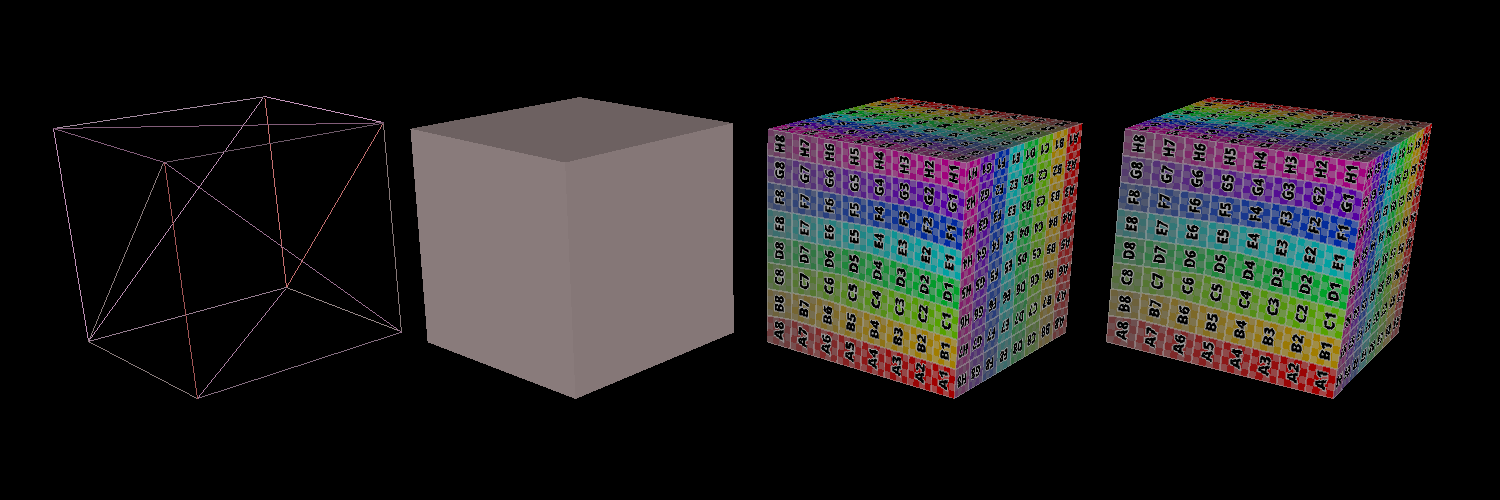
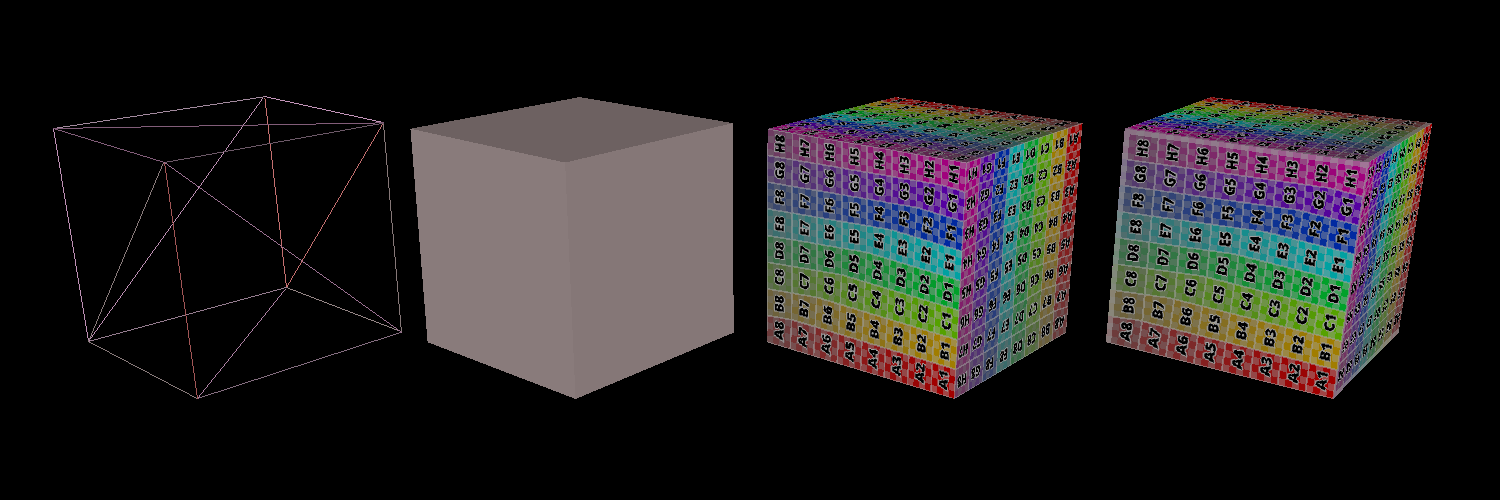
finished ait5, next t6

Changed region(s): [[0.736, 0.21, 0.9507, 0.78]]

diff --git a/src/rasterizer/pipeline.cpp b/src/rasterizer/pipeline.cpp
@@ -576,6 +576,8 @@ void Pipeline< p, P, flags >::rasterize_triangle(
 		float max_y = std::max(va.fb_position.y, std::max(vb.fb_position.y, vc.fb_position.y));
 
 		// std::array< float, FA> attributesTmp = va.attributes;
+		bool derivativesComputed = false;
+		Vec2 der;
 
 		for (int row = int(floor(min_x)); row < int(ceil(max_x)); row++){
 			for (int col = int(floor(min_y)); col < int(ceil(max_y)); col++){
@@ -584,12 +586,42 @@ void Pipeline< p, P, flags >::rasterize_triangle(
 				if( inTriangle(pixelPos, va.fb_position, vb.fb_position, vc.fb_position))
 				{
 					Fragment frag;
-					// frag.attributes = interpolateAttr(pixelPos, va.fb_position, vb.fb_position, vc.fb_position, 
-					// 								  va.attributes, vb.attributes, vc.attributes);
+					if (!derivativesComputed){
+						Vec3 derTest_x = pixelPos + Vec3(.01f, 0.0f, 0.0f);
+						Vec3 derTest_y = pixelPos + Vec3(0.0f, .01f, 0.0f);
+						Vec3 baryPixel = barycentricCoord(pixelPos, 
+													 va.fb_position, 
+													 vb.fb_position, 
+													 vc.fb_position);
+
+						Vec3 bary_x = barycentricCoord(derTest_x, 
+													 va.fb_position, 
+													 vb.fb_position, 
+													 vc.fb_position);
+						
+						Vec3 bary_y = barycentricCoord(derTest_y,
+													 va.fb_position, 
+													 vb.fb_position, 
+													 vc.fb_position);	
+						
+						Vec3 baryDeriveX = (bary_x - baryPixel) / .01f;
+						Vec3 baryDeriveY = (bary_y - baryPixel) / .01f;
+						der.x = baryDeriveX.x * va.attributes[0] + 
+								baryDeriveX.y * vb.attributes[0] + 
+								baryDeriveX.z * vc.attributes[0];
+						der.y = baryDeriveY.x * va.attributes[0] +
+								baryDeriveY.y * vb.attributes[0] +
+								baryDeriveY.z * vc.attributes[0];
+
+						derivativesComputed = true;
+					}
 					
 					frag.attributes = interpolateAttr(pixelPos, va.fb_position, vb.fb_position, vc.fb_position, 
 																		  va.attributes, vb.attributes, vc.attributes);
 					frag.fb_position = pixelPos;
+					
+					frag.derivatives[0] = der;
+					
 					emit_fragment(frag);
 				}
 			}
@@ -601,7 +633,68 @@ void Pipeline< p, P, flags >::rasterize_triangle(
 
 		//As a placeholder, here's code that calls the Screen-space interpolation function:
 		//(remove this and replace it with a real solution)
-		Pipeline< PrimitiveType::Lines, P, (flags  & ~PipelineMask_Interp) | Pipeline_Interp_Screen >::rasterize_triangle(va, vb, vc, emit_fragment);
+		// Pipeline< PrimitiveType::Lines, P, (flags  & ~PipelineMask_Interp) | Pipeline_Interp_Screen >::rasterize_triangle(va, vb, vc, emit_fragment);
+		float min_x = std::min(va.fb_position.x, std::min(vb.fb_position.x, vc.fb_position.x));
+		float max_x = std::max(va.fb_position.x, std::max(vb.fb_position.x, vc.fb_position.x));
+		float min_y = std::min(va.fb_position.y, std::min(vb.fb_position.y, vc.fb_position.y));
+		float max_y = std::max(va.fb_position.y, std::max(vb.fb_position.y, vc.fb_position.y));
+
+		
+		bool derivativesComputed = false;
+		Vec2 der;
+
+		for (int row = int(floor(min_x)); row < int(ceil(max_x)); row++){
+			for (int col = int(floor(min_y)); col < int(ceil(max_y)); col++){
+				Vec3 pixelPos = Vec3(row + 0.5f, col + 0.5f, 0.f);
+				if( inTriangle(pixelPos, va.fb_position, vb.fb_position, vc.fb_position))
+				{
+					pixelPos.z = float(interpolateZ(pixelPos, va.fb_position, vb.fb_position, vc.fb_position));
+					
+					Fragment frag;
+					if (!derivativesComputed){
+						Vec3 derTest_x = pixelPos + Vec3(.01f, 0.0f, 0.0f);
+						Vec3 derTest_y = pixelPos + Vec3(0.0f, .01f, 0.0f);
+						Vec3 baryPixel = barycentricCoord(pixelPos, 
+													 va.fb_position, 
+													 vb.fb_position, 
+													 vc.fb_position);
+
+						Vec3 bary_x = barycentricCoord(derTest_x, 
+													 va.fb_position, 
+													 vb.fb_position, 
+													 vc.fb_position);
+						
+						Vec3 bary_y = barycentricCoord(derTest_y,
+													 va.fb_position, 
+													 vb.fb_position, 
+													 vc.fb_position);	
+						
+						Vec3 baryDeriveX = (bary_x - baryPixel) / .01f;
+						Vec3 baryDeriveY = (bary_y - baryPixel) / .01f;
+						der.x = baryDeriveX.x * va.attributes[0] + 
+								baryDeriveX.y * vb.attributes[0] + 
+								baryDeriveX.z * vc.attributes[0];
+						der.y = baryDeriveY.x * va.attributes[0] +
+								baryDeriveY.y * vb.attributes[0] +
+								baryDeriveY.z * vc.attributes[0];
+
+						derivativesComputed = true;
+					}
+					
+		
+					
+					frag.attributes = interpolateAttrWInverse(pixelPos, va.fb_position, vb.fb_position, vc.fb_position, 
+															  va.attributes, vb.attributes, vc.attributes,
+															  va.inv_w, vb.inv_w, vc.inv_w);
+					// for (int i = 0; i < frag.attributes.size(); i++){
+					// 	frag.attributes[i] = frag.attributes[i] / interpolateInverse;
+					// }
+					frag.derivatives[0] = der;
+					frag.fb_position = pixelPos;
+					emit_fragment(frag);
+				}
+			}
+		}
 	}
 }
 

diff --git a/src/util/helper.cpp b/src/util/helper.cpp
@@ -263,3 +263,43 @@ std::array< float, 5> interpolateAttr(Vec3 test, Vec3 A, Vec3 B, Vec3 C,
 	}
 	return result;
 }
+
+std::array< float, 5> interpolateAttrWInverse(Vec3 test, Vec3 A, Vec3 B, Vec3 C, 
+										std::array< float, 5> attrA, 
+										std::array< float, 5> attrB, 
+										std::array< float, 5> attrC,
+										float ivA, float ivB, float ivC){
+	double totalArea = triangleArea(A, B, C);
+	double area1 = triangleArea(test, B, C);
+	double area2 = triangleArea(A, test, C);
+	double area3 = triangleArea(A, B, test);
+
+	Vec3 baryPixel = Vec3(float(area1 / totalArea), 
+					float(area2 / totalArea), 
+					float(area3 / totalArea));
+									
+	float interpolateInverse = 	float(ivA * baryPixel.x) + 
+								float(ivB * baryPixel.y) +  
+								float(ivC * baryPixel.z);
+
+	std::array< float, 5> result;
+	for(int i = 0; i < 5; i++){
+		result[i] = float((area1 * attrA[i] * ivA + area2 * attrB[i] * ivB + area3 * attrC[i] * ivC) / totalArea);
+	
+		result[i] = result[i] / interpolateInverse;
+	}
+	return result;
+}
+
+Vec3 barycentricCoord(Vec3 test, Vec3 A, Vec3 B, Vec3 C){
+	double totalArea = triangleArea(A, B, C);
+	double area1 = triangleArea(test, B, C);
+	double area2 = triangleArea(A, test, C);
+	double area3 = triangleArea(A, B, test);
+	return Vec3(float(area1 / totalArea), 
+				float(area2 / totalArea), 
+				float(area3 / totalArea));
+}
+
+
+

diff --git a/tests/a1/test.a1.task5.cpp b/tests/a1/test.a1.task5.cpp
@@ -244,8 +244,10 @@ Test test_a1_task5_screen_simple_attribs("a1.task5.screen.simple.attribs", []() 
 	// with barycentric coordinates:
 	//  [0.75, 0.125, 0.125]  and [0.25, 0.375, 0.375], respectively
 
-	//changes in x change barycentric coords by [-0.5 * dx, 0.25 * dx, 0.25 * dx] (since must go from [1.0,0.0,0.0] to [0.0,0.5,0.5] over 2 units)
-	//changes in y change barycentric coords by [0.0, -dy, dy] (since must go from [0.0,1.0,0.0] to [0.0,0.0,1.0] over 1 unit)
+	//changes in x change barycentric coords by [-0.5 * dx, 0.25 * dx, 0.25 * dx] 
+	// (since must go from [1.0,0.0,0.0] to [0.0,0.5,0.5] over 2 units)
+	//changes in y change barycentric coords by [0.0, -dy, dy] 
+	// (since must go from [0.0,1.0,0.0] to [0.0,0.0,1.0] over 1 unit)
 
 	Vec2 attrib0_deriv = Vec2{
 		1.0f * -0.5f + 2.0f * 0.25f + 4.0f * 0.25f,

diff --git a/src/util/helper.h b/src/util/helper.h
@@ -27,3 +27,9 @@ std::array< float, 5> interpolateAttr(Vec3 test, Vec3 A, Vec3 B, Vec3 C,
 										std::array< float, 5> attrA, 
 										std::array< float, 5> attrB, 
 										std::array< float, 5> attrC);
+std::array< float, 5> interpolateAttrWInverse(Vec3 test, Vec3 A, Vec3 B, Vec3 C, 
+										std::array< float, 5> attrA, 
+										std::array< float, 5> attrB, 
+										std::array< float, 5> attrC,
+										float ivA, float ivB, float ivC);
+Vec3 barycentricCoord(Vec3 test, Vec3 A, Vec3 B, Vec3 C);
